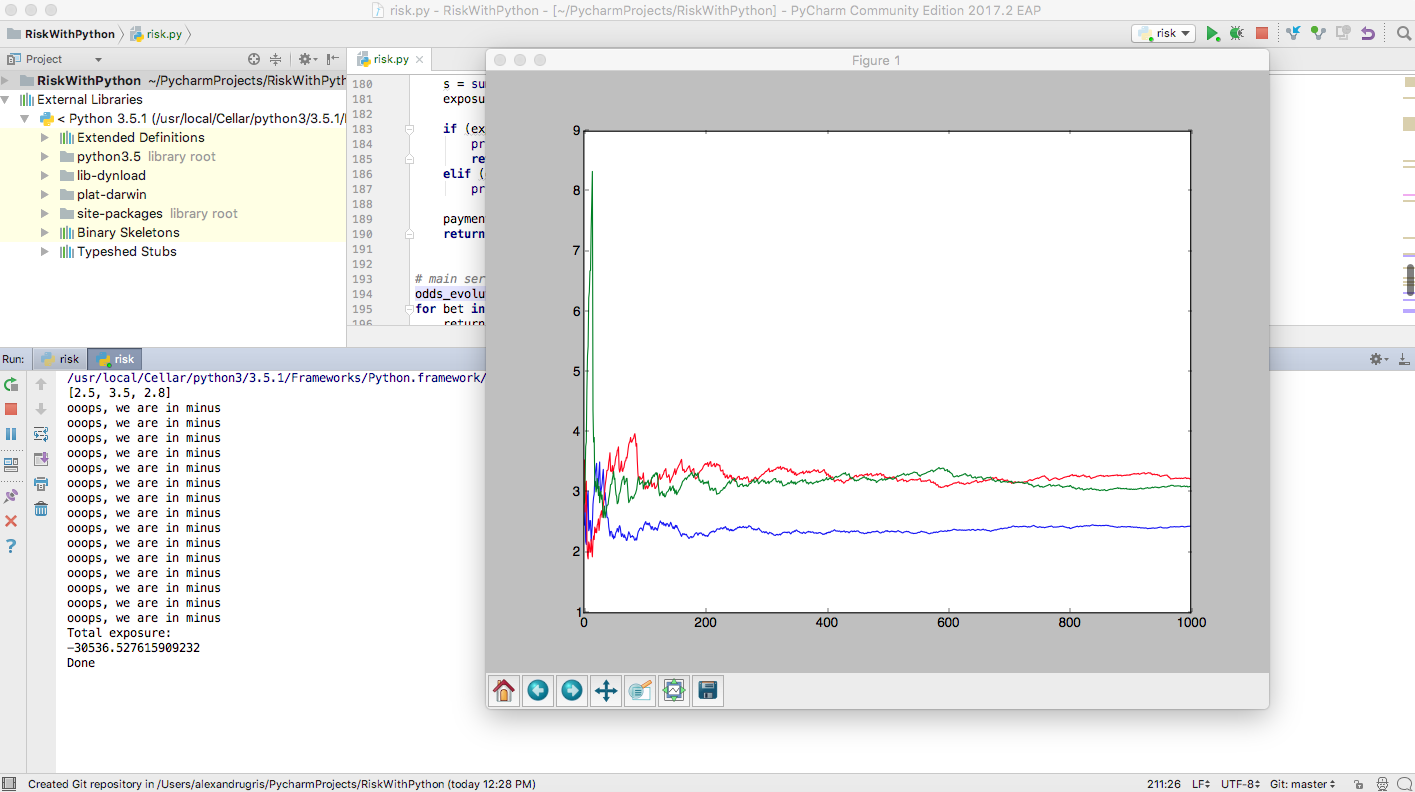
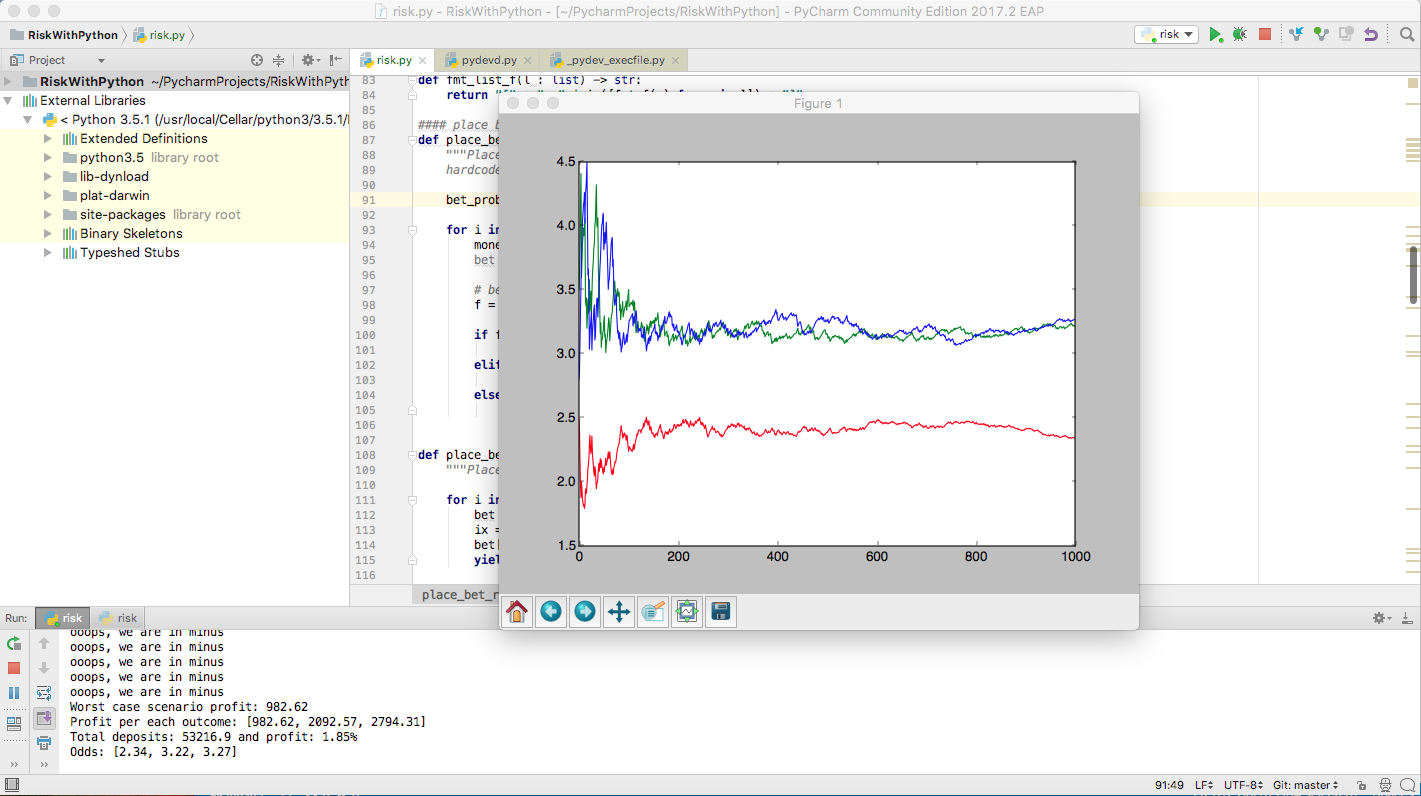
Publish Sun 11/05/2017 11:01:54.57

diff --git a/statistics/2017/10/29/odds-adjustment-risk.html b/statistics/2017/10/29/odds-adjustment-risk.html
@@ -250,16 +250,18 @@ When we flip our coin a several times and see <code class="highlighter-rouge">h<
 
 <p>To keep the results understandable, I used a test bed composed of 3 types of bet placing strategies:</p>
 
-<div class="language-python highlighter-rouge"><pre class="highlight"><code><span class="k">def</span> <span class="nf">place_bet_random</span><span class="p">():</span>
-    <span class="s">"""Places a random bet, with probabilities of placing the bet for each outcome 
+<div class="language-python highlighter-rouge"><pre class="highlight"><code><span class="c">#### place bet functions</span>
+<span class="k">def</span> <span class="nf">place_bet_random</span><span class="p">(</span><span class="n">max_bet</span><span class="p">):</span>
+    <span class="s">"""Places a random bet, with probabilities of placing the bet for each outcome
     hardcoded in the first line of the function"""</span>
+
     <span class="n">bet_probabilities</span> <span class="o">=</span> <span class="n">normalize</span><span class="p">([</span><span class="mf">0.5</span><span class="p">,</span> <span class="mf">0.3</span><span class="p">,</span> <span class="mf">0.3</span><span class="p">])</span>
 
-    <span class="k">for</span> <span class="n">i</span> <span class="ow">in</span> <span class="nb">range</span><span class="p">(</span><span class="mi">0</span><span class="p">,</span> <span class="mi">1000</span><span class="p">):</span>
-        <span class="n">money</span> <span class="o">=</span> <span class="n">random</span><span class="o">.</span><span class="n">random</span><span class="p">()</span> <span class="o">*</span> <span class="mi">100</span>
+    <span class="k">for</span> <span class="n">i</span> <span class="ow">in</span> <span class="nb">range</span><span class="p">(</span><span class="mi">0</span><span class="p">,</span> <span class="n">number_of_bets</span><span class="p">):</span>
+        <span class="n">money</span> <span class="o">=</span> <span class="n">random</span><span class="o">.</span><span class="n">random</span><span class="p">()</span> <span class="o">*</span> <span class="n">max_bet</span><span class="p">()</span>
         <span class="n">bet</span> <span class="o">=</span> <span class="p">[</span><span class="mi">0</span><span class="p">,</span> <span class="mi">0</span><span class="p">,</span> <span class="mi">0</span><span class="p">]</span>
 
-        <span class="c"># bet according to probabilities above</span>
+        <span class="c"># bet according to local preferences</span>
         <span class="n">f</span> <span class="o">=</span> <span class="n">random</span><span class="o">.</span><span class="n">random</span><span class="p">()</span>
 
         <span class="k">if</span> <span class="n">f</span> <span class="o">&lt;</span> <span class="n">bet_probabilities</span><span class="p">[</span><span class="mi">0</span><span class="p">]:</span>
@@ -270,22 +272,29 @@ When we flip our coin a several times and see <code class="highlighter-rouge">h<
             <span class="k">yield</span> <span class="p">[</span><span class="mi">0</span><span class="p">,</span> <span class="mi">0</span><span class="p">,</span> <span class="n">money</span><span class="p">]</span>
 
 
-<span class="k">def</span> <span class="nf">place_bet_max_stake</span><span class="p">():</span>
+<span class="k">def</span> <span class="nf">place_bet_max_stake</span><span class="p">(</span><span class="n">max_bet</span><span class="p">):</span>
     <span class="s">"""Places a bet on the highest stake"""</span>
-    <span class="k">for</span> <span class="n">i</span> <span class="ow">in</span> <span class="nb">range</span><span class="p">(</span><span class="mi">0</span><span class="p">,</span> <span class="mi">1000</span><span class="p">):</span>
-        <span class="n">money</span> <span class="o">=</span> <span class="mi">100</span>
+
+    <span class="k">for</span> <span class="n">i</span> <span class="ow">in</span> <span class="nb">range</span><span class="p">(</span><span class="mi">0</span><span class="p">,</span> <span class="n">number_of_bets</span><span class="p">):</span>
         <span class="n">bet</span> <span class="o">=</span> <span class="p">[</span><span class="mi">0</span><span class="p">,</span> <span class="mi">0</span><span class="p">,</span> <span class="mi">0</span><span class="p">]</span>
         <span class="n">ix</span> <span class="o">=</span> <span class="n">odds_evolution</span><span class="p">[</span><span class="o">-</span><span class="mi">1</span><span class="p">]</span><span class="o">.</span><span class="n">index</span><span class="p">(</span><span class="nb">max</span><span class="p">(</span><span class="n">odds_evolution</span><span class="p">[</span><span class="o">-</span><span class="mi">1</span><span class="p">]))</span>
-        <span class="n">bet</span><span class="p">[</span><span class="n">ix</span><span class="p">]</span> <span class="o">=</span> <span class="n">money</span>
+        <span class="n">bet</span><span class="p">[</span><span class="n">ix</span><span class="p">]</span> <span class="o">=</span> <span class="n">max_bet</span><span class="p">()</span>
         <span class="k">yield</span> <span class="n">bet</span>
 
 
-<span class="k">def</span> <span class="nf">place_bet_diverse</span><span class="p">():</span>
-    <span class="s">""" A combination of the strategies above, with a probability of 1/3 to place bet on the max stake"""</span>
-    <span class="k">if</span> <span class="n">random</span><span class="o">.</span><span class="n">randint</span><span class="p">(</span><span class="mi">0</span><span class="p">,</span> <span class="mi">3</span><span class="p">)</span> <span class="o">==</span> <span class="mi">0</span><span class="p">:</span>
-        <span class="k">return</span> <span class="n">place_bet_max_stake</span><span class="p">()</span>
-    <span class="k">else</span><span class="p">:</span>
-        <span class="k">return</span> <span class="n">place_bet_random</span><span class="p">()</span>
+<span class="k">def</span> <span class="nf">place_bet_diverse</span><span class="p">(</span><span class="n">max_bet</span>  <span class="o">=</span> <span class="k">lambda</span><span class="p">:</span> <span class="mf">100.0</span><span class="p">):</span>
+    <span class="s">""" A combination of the strategies above, with a probability of 1/20 to place bet on the max stake"""</span>
+
+    <span class="n">pbms</span> <span class="o">=</span> <span class="n">place_bet_max_stake</span><span class="p">(</span><span class="n">max_bet</span><span class="p">)</span>
+    <span class="n">pbr</span> <span class="o">=</span> <span class="n">place_bet_random</span><span class="p">(</span><span class="n">max_bet</span><span class="p">)</span>
+
+    <span class="k">for</span> <span class="n">i</span> <span class="ow">in</span> <span class="nb">range</span><span class="p">(</span><span class="mi">0</span><span class="p">,</span> <span class="n">number_of_bets</span><span class="p">):</span>
+
+        <span class="k">if</span> <span class="n">random</span><span class="o">.</span><span class="n">randint</span><span class="p">(</span><span class="mi">0</span><span class="p">,</span> <span class="mi">20</span><span class="p">)</span> <span class="o">==</span> <span class="mi">0</span><span class="p">:</span>
+            <span class="k">yield</span> <span class="n">pbms</span><span class="o">.</span><span class="n">__next__</span><span class="p">()</span>
+        <span class="k">else</span><span class="p">:</span>
+            <span class="k">yield</span> <span class="n">pbr</span><span class="o">.</span><span class="n">__next__</span><span class="p">()</span>
+
 </code></pre>
 </div>
 
@@ -309,12 +318,13 @@ When we flip our coin a several times and see <code class="highlighter-rouge">h<
 <span class="c"># simulation</span>
 <span class="n">payments_per_outcome</span> <span class="o">=</span> <span class="p">[</span><span class="mi">0</span><span class="p">,</span> <span class="mi">0</span><span class="p">,</span> <span class="mi">0</span><span class="p">]</span>
 <span class="n">probabilities</span> <span class="o">=</span> <span class="n">initial_probabilities</span>
+<span class="n">total_deposits</span> <span class="o">=</span> <span class="mi">0</span>
 
 <span class="c"># our initial alpha and beta probabilities </span>
 <span class="c"># in short, for each outcome (1, x, 2) we assign a beta distribution of probabilities for that outcome to occur</span>
 <span class="c"># just like the coin: p of winning and 1-p of losing, weighted by the confidence_factor * total_market_risk</span>
-<span class="n">alpha_beta</span> <span class="o">=</span> <span class="p">[(</span><span class="n">p</span> <span class="o">*</span> <span class="n">confidence_factor</span><span class="p">,</span> <span class="n">confidence_factor</span> <span class="o">*</span> <span class="p">(</span><span class="n">total_market_risk</span> <span class="o">-</span> <span class="n">p</span><span class="p">))</span> <span class="k">for</span> <span class="n">p</span> <span class="ow">in</span>
-              <span class="p">[</span><span class="n">i</span> <span class="o">*</span> <span class="n">total_market_risk</span> <span class="k">for</span> <span class="n">i</span> <span class="ow">in</span> <span class="n">initial_probabilities</span><span class="p">]]</span>
+<span class="n">alpha_beta</span> <span class="o">=</span> <span class="p">[(</span><span class="n">p</span><span class="p">,</span> <span class="p">(</span><span class="n">total_market_risk</span> <span class="o">*</span> <span class="n">confidence_factor</span> <span class="o">-</span> <span class="n">p</span><span class="p">))</span> <span class="k">for</span> <span class="n">p</span> <span class="ow">in</span>
+              <span class="p">[</span><span class="n">i</span> <span class="o">*</span> <span class="n">total_market_risk</span> <span class="o">*</span> <span class="n">confidence_factor</span> <span class="k">for</span> <span class="n">i</span> <span class="ow">in</span> <span class="n">initial_probabilities</span><span class="p">]]</span>
 
 <span class="c"># an array we use forward to save the odds in order to chart the graphs</span>
 <span class="n">odds_evolution</span> <span class="o">=</span> <span class="p">[]</span>
@@ -329,25 +339,28 @@ When we flip our coin a several times and see <code class="highlighter-rouge">h<
     The risk computation is simple:
         - We have X buckets for X mutually exclusive outcomes - (for 1x2, 3 buckets: home-draw-away)
         - We add the payments to be made in case of winning the bet to the right bucket. payment = odds x stake
-        - We compute the exposure by substracting from the maximum bucket the sum of the other two.
+        - We compute the exposure by substracting from the maximum bucket the sum of all the placed bets so far.
         - If the exposure is higher than the maximum market exposure, we don't acccept the bet"""</span>
 
     <span class="k">global</span> <span class="n">payments_per_outcome</span>
     <span class="k">global</span> <span class="n">alpha_beta</span>
+    <span class="k">global</span> <span class="n">total_deposits</span>
 
     <span class="k">assert</span> <span class="p">(</span><span class="mf">0.999</span> <span class="o">&lt;</span> <span class="nb">sum</span><span class="p">(</span><span class="n">probabilities</span><span class="p">)</span> <span class="o">&lt;</span> <span class="mf">1.001</span><span class="p">)</span>
+    <span class="k">assert</span> <span class="p">(</span><span class="nb">sum</span><span class="p">(</span><span class="n">bet</span><span class="p">)</span> <span class="o">==</span> <span class="nb">max</span><span class="p">(</span><span class="n">bet</span><span class="p">)</span> <span class="ow">and</span> <span class="nb">min</span><span class="p">(</span><span class="n">bet</span><span class="p">)</span> <span class="o">==</span> <span class="mi">0</span><span class="p">)</span> <span class="c"># just one is &gt; 0</span>
+
+    <span class="n">total_deposits</span> <span class="o">+=</span> <span class="nb">max</span><span class="p">(</span><span class="n">bet</span><span class="p">)</span>
 
     <span class="n">payment_per_bet</span> <span class="o">=</span> <span class="p">[</span><span class="n">pto</span> <span class="o">*</span> <span class="n">b</span> <span class="k">for</span> <span class="n">pto</span><span class="p">,</span> <span class="n">b</span> <span class="ow">in</span> <span class="nb">zip</span><span class="p">(</span><span class="n">probabilities_to_odds</span><span class="p">(</span><span class="n">probabilities</span><span class="p">,</span> <span class="n">set_payout</span><span class="p">),</span> <span class="n">bet</span><span class="p">)]</span>
     <span class="n">total_payment_per_outcome</span> <span class="o">=</span> <span class="p">[</span><span class="n">ppo</span> <span class="o">+</span> <span class="n">ppb</span> <span class="k">for</span> <span class="n">ppo</span><span class="p">,</span> <span class="n">ppb</span> <span class="ow">in</span> <span class="nb">zip</span><span class="p">(</span><span class="n">payments_per_outcome</span><span class="p">,</span> <span class="n">payment_per_bet</span><span class="p">)]</span>
 
     <span class="c"># because we talk about mutually exclusive events:</span>
-    <span class="n">s</span> <span class="o">=</span> <span class="nb">sum</span><span class="p">(</span><span class="n">total_payment_per_outcome</span><span class="p">)</span>
-    <span class="n">exposure</span> <span class="o">=</span> <span class="nb">max</span><span class="p">([</span><span class="mi">2</span> <span class="o">*</span> <span class="n">ppo</span> <span class="o">-</span> <span class="n">s</span> <span class="k">for</span> <span class="n">ppo</span> <span class="ow">in</span> <span class="n">total_payment_per_outcome</span><span class="p">])</span>
+    <span class="n">exposure</span> <span class="o">=</span> <span class="n">total_market_risk</span> <span class="o">+</span> <span class="n">total_deposits</span> <span class="o">-</span> <span class="nb">max</span><span class="p">(</span><span class="n">total_payment_per_outcome</span><span class="p">)</span>
 
     <span class="c"># somehow contradictory: while we do not accept the bet if the exposure is too high,</span>
     <span class="c"># we do allow the bet to shift the odds -&gt; can be a trigger for fraud, so additional care</span>
     <span class="c"># should be taken in a real-life implementation</span>
-    <span class="k">if</span> <span class="p">(</span><span class="n">exposure</span> <span class="o">&gt;</span> <span class="n">total_market_risk</span><span class="p">):</span>
+    <span class="k">if</span> <span class="p">(</span><span class="n">exposure</span> <span class="o">&lt;</span> <span class="o">-</span><span class="n">total_market_risk</span><span class="p">):</span>
         <span class="k">print</span><span class="p">(</span><span class="s">"Bet Not Accepted"</span> <span class="o">+</span> <span class="nb">str</span><span class="p">(</span><span class="n">bet</span><span class="p">))</span>
         <span class="k">return</span> <span class="n">payment_per_bet</span>  <span class="c"># do not update the payments</span>
     <span class="k">elif</span> <span class="p">(</span><span class="n">exposure</span> <span class="o">&gt;</span> <span class="mi">0</span><span class="p">):</span>
@@ -359,17 +372,16 @@ When we flip our coin a several times and see <code class="highlighter-rouge">h<
 
 <span class="c"># main service</span>
 <span class="n">odds_evolution</span><span class="o">.</span><span class="n">append</span><span class="p">(</span><span class="n">probabilities_to_odds</span><span class="p">(</span><span class="n">probabilities</span><span class="p">,</span> <span class="n">set_payout</span><span class="p">))</span>
-<span class="k">for</span> <span class="n">bet</span> <span class="ow">in</span> <span class="n">place_bet_random</span><span class="p">():</span>
+<span class="k">for</span> <span class="n">bet</span> <span class="ow">in</span> <span class="n">place_bet_diverse</span><span class="p">():</span>
     <span class="n">returns</span> <span class="o">=</span> <span class="n">accept_bet_risk</span><span class="p">(</span><span class="n">bet</span><span class="p">,</span> <span class="n">probabilities</span><span class="p">)</span>
 
     <span class="c"># updates alpha and beta for each possible outcome using the financial information</span>
-    <span class="c"># like binomial (coin-toss), alpha + r, beta + max(returns) - r</span>
-    <span class="c"># where returns = odds * stake (a list of 3 in case of 1x2) and </span>
-    <span class="c"># r is the return on the specific outcome (can be 0 or max(returns))</span>
-    <span class="c"># basically each EUR won is transformed in a "heads" event, the max(returns) = the sum of tosses</span>
-    <span class="n">alpha_beta</span> <span class="o">=</span> <span class="p">[(</span><span class="n">alpha</span> <span class="o">+</span> <span class="n">r</span><span class="p">,</span> <span class="n">beta</span> <span class="o">+</span> <span class="nb">max</span><span class="p">(</span><span class="n">returns</span><span class="p">)</span> <span class="o">-</span> <span class="n">r</span><span class="p">)</span> <span class="k">for</span> <span class="p">(</span><span class="n">alpha</span><span class="p">,</span> <span class="n">beta</span><span class="p">),</span> <span class="n">r</span> <span class="ow">in</span> <span class="nb">zip</span><span class="p">(</span><span class="n">alpha_beta</span><span class="p">,</span> <span class="n">returns</span><span class="p">)]</span>
-
+    <span class="c"># like binomial (coin-toss), alpha + r, beta + max(bet) - r</span>
+    <span class="c"># basically each EUR waged is transformed in a "heads" event, the max(bet) = the sum of tosses</span>
+    
+    <span class="n">alpha_beta</span> <span class="o">=</span> <span class="p">[(</span><span class="n">alpha</span> <span class="o">+</span> <span class="n">r</span><span class="p">,</span> <span class="n">beta</span> <span class="o">+</span> <span class="nb">max</span><span class="p">(</span><span class="n">bet</span><span class="p">)</span> <span class="o">-</span> <span class="n">r</span><span class="p">)</span> <span class="k">for</span> <span class="p">(</span><span class="n">alpha</span><span class="p">,</span> <span class="n">beta</span><span class="p">),</span> <span class="n">r</span> <span class="ow">in</span> <span class="nb">zip</span><span class="p">(</span><span class="n">alpha_beta</span><span class="p">,</span> <span class="n">bet</span><span class="p">)]</span>
     <span class="n">probabilities</span> <span class="o">=</span> <span class="n">normalize</span><span class="p">([</span><span class="n">center</span><span class="p">(</span><span class="n">alpha</span><span class="p">,</span> <span class="n">beta</span><span class="p">)</span> <span class="k">for</span> <span class="n">alpha</span><span class="p">,</span> <span class="n">beta</span> <span class="ow">in</span> <span class="n">alpha_beta</span><span class="p">])</span>
+    
     <span class="n">odds_evolution</span><span class="o">.</span><span class="n">append</span><span class="p">(</span><span class="n">probabilities_to_odds</span><span class="p">(</span><span class="n">probabilities</span><span class="p">,</span> <span class="n">set_payout</span><span class="p">))</span>
 
 </code></pre>
@@ -378,9 +390,10 @@ When we flip our coin a several times and see <code class="highlighter-rouge">h<
 <p>The results are then displayed as a chart, like this:</p>
 
 <div class="language-python highlighter-rouge"><pre class="highlight"><code><span class="k">print</span><span class="p">(</span><span class="s">"Total exposure: "</span><span class="p">)</span>
-<span class="n">s</span> <span class="o">=</span> <span class="nb">sum</span><span class="p">(</span><span class="n">payments_per_outcome</span><span class="p">)</span>
-<span class="k">print</span><span class="p">(</span><span class="nb">max</span><span class="p">([</span><span class="mi">2</span> <span class="o">*</span> <span class="n">ppo</span> <span class="o">-</span> <span class="n">s</span> <span class="k">for</span> <span class="n">ppo</span> <span class="ow">in</span> <span class="n">payments_per_outcome</span><span class="p">]))</span>
-<span class="k">print</span><span class="p">(</span><span class="s">"Done"</span><span class="p">)</span>
+<span class="k">print</span><span class="p">(</span><span class="s">"Worst case scenario profit: {0:.1f}"</span><span class="o">.</span><span class="n">format</span><span class="p">(</span><span class="n">total_deposits</span> <span class="o">-</span> <span class="nb">max</span><span class="p">(</span><span class="n">payments_per_outcome</span><span class="p">)))</span>
+<span class="k">print</span><span class="p">(</span><span class="s">"Profit per each outcome: "</span> <span class="o">+</span> <span class="nb">str</span><span class="p">([</span><span class="n">total_deposits</span> <span class="o">-</span> <span class="n">x</span> <span class="k">for</span> <span class="n">x</span> <span class="ow">in</span> <span class="n">payments_per_outcome</span><span class="p">]))</span>
+<span class="k">print</span><span class="p">(</span><span class="s">"Odds: "</span> <span class="o">+</span> <span class="nb">str</span><span class="p">(</span><span class="n">odds_evolution</span><span class="p">[</span><span class="o">-</span><span class="mi">1</span><span class="p">]))</span>
+<span class="k">print</span><span class="p">(</span><span class="s">"Done."</span><span class="p">)</span>
 
 <span class="n">h</span> <span class="o">=</span> <span class="p">[</span><span class="n">x</span><span class="p">[</span><span class="mi">0</span><span class="p">]</span> <span class="k">for</span> <span class="n">x</span> <span class="ow">in</span> <span class="n">odds_evolution</span><span class="p">]</span>
 <span class="n">d</span> <span class="o">=</span> <span class="p">[</span><span class="n">x</span><span class="p">[</span><span class="mi">1</span><span class="p">]</span> <span class="k">for</span> <span class="n">x</span> <span class="ow">in</span> <span class="n">odds_evolution</span><span class="p">]</span>
@@ -403,19 +416,40 @@ When we flip our coin a several times and see <code class="highlighter-rouge">h<
   <li>We start with an offering of <code class="highlighter-rouge">[2.5, 3.5, 2.8]</code></li>
   <li>We place 1000 bets</li>
   <li>We place bet with a preference for the first outcome, according to <code class="highlighter-rouge">normalize([0.5, 0.3, 0.3])</code> (like, for instance, would happen in Bucharest if Steaua plays at home)</li>
-  <li>One third of the players aim just for the highest odds, playing just for money.</li>
+  <li>One in 20 players aim just for the highest odds, playing just for money.</li>
   <li>We place bets between 0 and 100 EURs</li>
 </ul>
 
 <p><em>How to interpret the results:</em></p>
 <ul>
   <li>Because the inital risk was just 1000 EUR and we kept the <code class="highlighter-rouge">confidence_factor=1</code>, we see some significant odds variations in the beginning (attention to markets where only just a few bets are placed, e.g. Afganistan second division)</li>
-  <li>After the initial chaos, the odds stabilize. Due to our preference for the first market, the odds there are lower there and, due to the fact that we have also a preference for the highest payout, the odds for the other two markets are roughly equal.</li>
-  <li>Despite the high payout (95%), our exposure is <code class="highlighter-rouge">-30536</code>, meaning that, no matter what the end result is, the house wins at least <code class="highlighter-rouge">-30536</code> from <code class="highlighter-rouge">1000</code> bets.</li>
-  <li>We are sometimes in the minus, meaning that the house might lose money on this market if there are not enough bets.</li>
+  <li>Another option to limit initial variations would be to limit the first stakes to a percentage of the total risk + total_deposits, like below:</li>
 </ul>
 
-<p>If we run several simulations we notice that, unless the initial offering is completely off-mark and the number of bets are is small, the house wins nice money in most of the cases. The results are consistent.</p>
+<div class="language-python highlighter-rouge"><pre class="highlight"><code><span class="k">for</span> <span class="n">bet</span> <span class="ow">in</span> <span class="n">place_bet_diverse</span><span class="p">(</span><span class="k">lambda</span><span class="p">:</span> <span class="nb">min</span><span class="p">((</span><span class="n">total_market_risk</span> <span class="o">+</span> <span class="n">total_deposits</span><span class="p">)</span> <span class="o">*</span> <span class="mi">1</span> <span class="o">/</span> <span class="mi">100</span><span class="p">,</span> <span class="mi">100</span><span class="p">)):</span>
+<span class="p">[</span><span class="o">....</span><span class="p">]</span><span class="sb">``</span><span class="err">`</span>
+
+<span class="o">-</span> <span class="n">After</span> <span class="n">the</span> <span class="n">initial</span> <span class="n">chaos</span><span class="p">,</span> <span class="n">the</span> <span class="n">odds</span> <span class="n">stabilize</span><span class="o">.</span> <span class="n">Due</span> <span class="n">to</span> <span class="n">our</span> <span class="n">preference</span> <span class="k">for</span> <span class="n">the</span> <span class="n">first</span> <span class="n">market</span><span class="p">,</span> <span class="n">the</span> <span class="n">odds</span> <span class="n">there</span> <span class="n">are</span> <span class="n">lower</span> <span class="n">there</span> <span class="ow">and</span><span class="p">,</span> <span class="n">due</span> <span class="n">to</span> <span class="n">the</span> <span class="n">fact</span> <span class="n">that</span> <span class="n">we</span> <span class="n">have</span> <span class="n">also</span> <span class="n">a</span> <span class="n">preference</span> <span class="k">for</span> <span class="n">the</span> <span class="n">highest</span> <span class="n">payout</span><span class="p">,</span> <span class="n">the</span> <span class="n">odds</span> <span class="k">for</span> <span class="n">the</span> <span class="n">other</span> <span class="n">two</span> <span class="n">markets</span> <span class="n">are</span> <span class="n">roughly</span> <span class="n">equal</span><span class="o">.</span>
+<span class="o">-</span> <span class="n">Despite</span> <span class="n">the</span> <span class="n">high</span> <span class="n">payout</span> <span class="p">(</span><span class="mi">95</span><span class="o">%</span><span class="p">),</span> <span class="n">the</span> <span class="n">house</span> <span class="n">wins</span> <span class="n">at</span> <span class="n">least</span> <span class="sb">`1.85%`</span> <span class="kn">from</span> <span class="err">`1000`</span> <span class="nn">bets</span> <span class="nn">in</span> <span class="nn">this</span> <span class="nn">run.</span><span class="err">
+-</span> <span class="nn">We</span> <span class="nn">are</span> <span class="nn">sometimes</span> <span class="nn">in</span> <span class="nn">the</span> <span class="nn">minus</span><span class="err">,</span> <span class="nn">meaning</span> <span class="nn">that</span> <span class="nn">the</span> <span class="nn">house</span> <span class="nn">might</span> <span class="nn">lose</span> <span class="nn">money</span> <span class="nn">on</span> <span class="nn">this</span> <span class="nn">market</span> <span class="nn">if</span> <span class="nn">there</span> <span class="nn">are</span> <span class="nn">not</span> <span class="nn">enough</span> <span class="nn">bets.</span><span class="err">
+
+</span><span class="nn">If</span> <span class="nn">we</span> <span class="nn">run</span> <span class="nn">several</span> <span class="nn">simulations</span> <span class="nn">we</span> <span class="nn">notice</span> <span class="nn">that</span><span class="err">,</span> <span class="nn">unless</span> <span class="nn">the</span> <span class="nn">initial</span> <span class="nn">offering</span> <span class="nn">is</span> <span class="nn">completely</span> <span class="nn">off</span><span class="err">-</span><span class="nn">mark</span> <span class="nn">and</span> <span class="nn">the</span> <span class="nn">number</span> <span class="nn">of</span> <span class="nn">bets</span> <span class="nn">are</span> <span class="nn">is</span> <span class="nn">small</span><span class="err">,</span> <span class="nn">the</span> <span class="nn">house</span> <span class="nn">wins</span> <span class="nn">money</span> <span class="nn">on</span> <span class="nn">most</span> <span class="nn">of</span> <span class="nn">the</span> <span class="nn">matches.</span> <span class="nn">T</span><span class="err">
+</span><span class="nn">he</span> <span class="nn">results</span> <span class="nn">are</span> <span class="nn">consistent</span> <span class="nn">across</span> <span class="nn">several</span> <span class="nn">runs</span> <span class="nn">of</span> <span class="nn">the</span> <span class="nn">algorithm.</span> <span class="nn">Below</span> <span class="nn">are</span> <span class="nn">the</span> <span class="nn">gains</span> <span class="nn">for</span> <span class="err">100</span> <span class="nn">runs</span><span class="err">,</span> <span class="nn">which</span> <span class="nn">give</span><span class="err">:
+
+</span></code></pre>
+</div>
+<p>Worst case profit: : mean: 675.39, stddev: 705.46
+Min profit % of total stakes 1.29:
+```</p>
+
+<p><img src="https://alexandrugris.github.io/assets/bayes_3.png" alt="Results" /></p>
+
+<p>If we consider 10000 bets per match, the results are much more stable and the profit much better even in the worst case:</p>
+
+<p><img src="https://alexandrugris.github.io/assets/bayes_4.png" alt="Results" /></p>
+
+<p><a href="https://github.com/alexandrugris/RiskWithPython/blob/master/risk.py">Full source code</a></p>
+
 
   </div>
 
